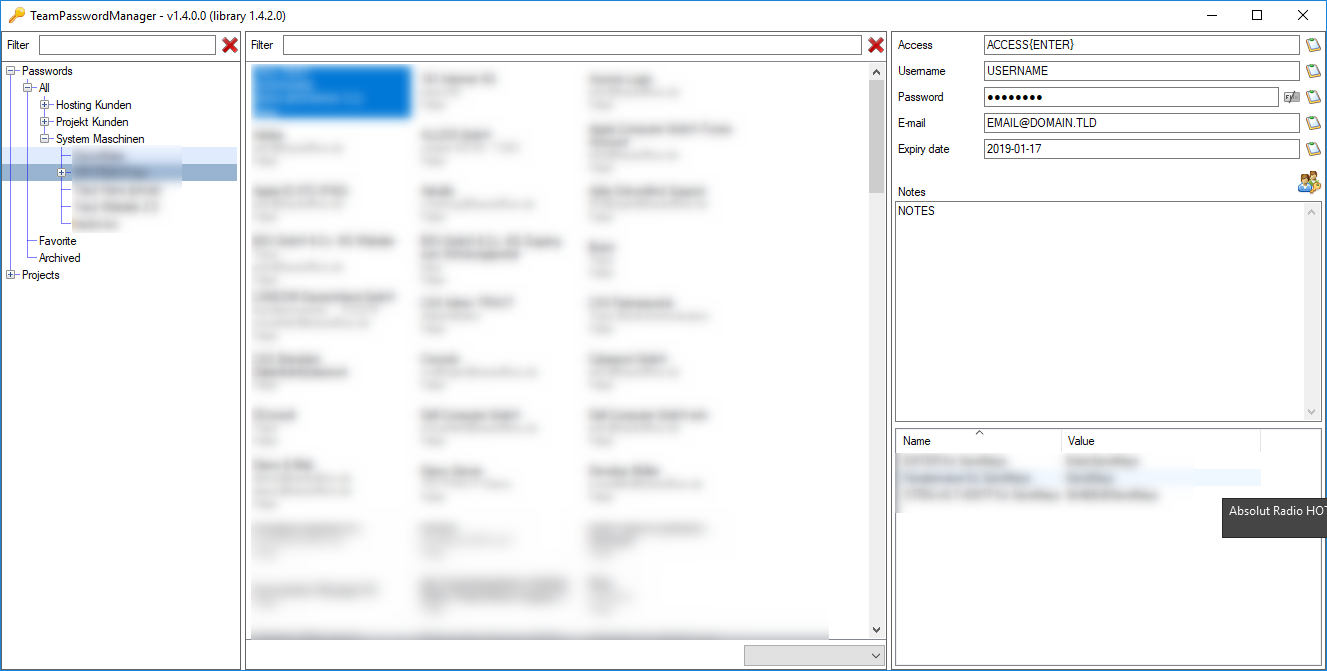
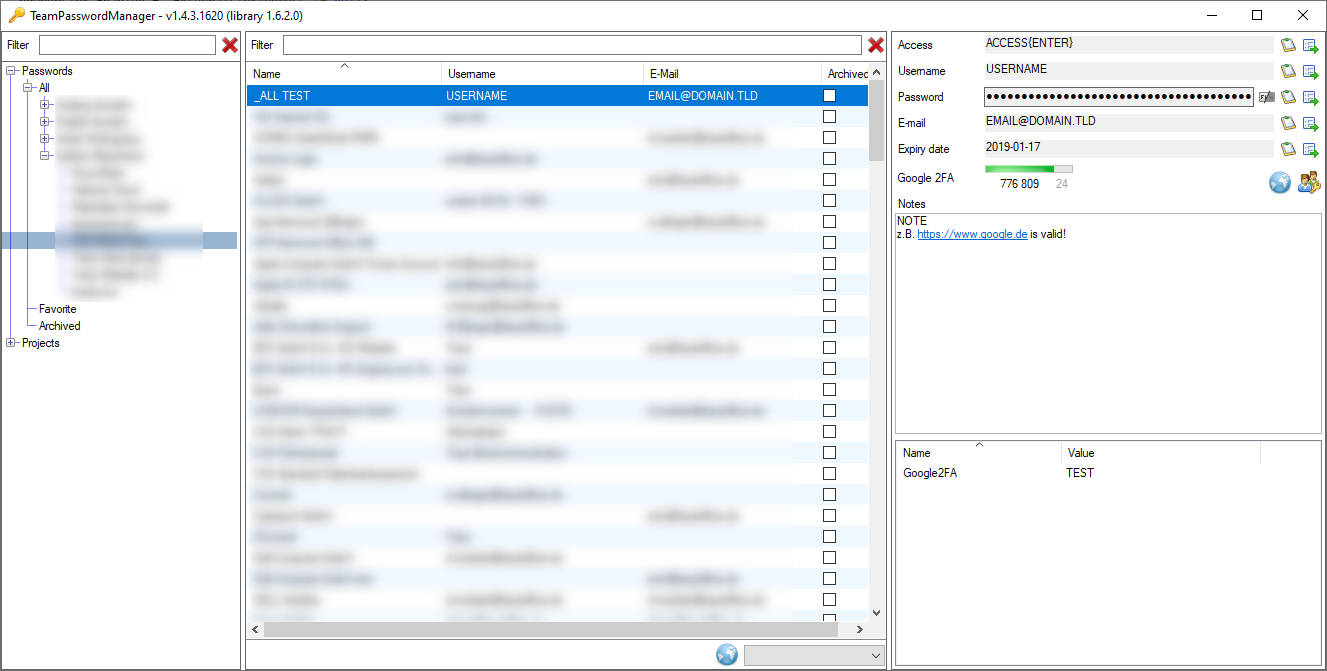
updated readme and screenshots

diff --git a/README.md b/README.md
@@ -10,6 +10,7 @@ Use at your own risk!
 * Search tree and list entries easily
 * Different list styles selectable
 * Autostart possible (using windows task scheduler logon option)
+* Google 2FA support using custom fields
 * Portable
 * Working API Access to basic functions needed for UI
 * Full access to UI controls (use it in your own application if you want to)
@@ -36,10 +37,17 @@ This project is still in beta phase and there are some things missing like:
 * HidePasswordsAfterSeconds (if password is revealed in the UI it is hidden after these amount of seconds - or not if 0)
 
 # TeamPassword.Library.dll.config
+## User
+* WindowChooserUsage (list of recently used programs in send keys feature - sorted after last used)
+* WindowChooserIgnoreProgramNames (list of program names which are going to be not shown in window chooser)
 ## Application
 * SendDelay (each key is delayed for these amount of milliseconds if send keys/send to application is used)
 * SendDelayInitial (waits these amounts of milliseconds before starting to send the first key (must be bigger than SendDelay) - needed e.g. for slow teamivewer connections)
 * SendWait (uses the default send keys feature to wait till application accepted the key)
+* WindowChooserLastUsedEntries (number of entries to show in window chooser - keep in mind that 3 can be viewed in default format)
 
 # Screenshot
+## Main Window
 ![](https://github.com/MyUncleSam/TeamPasswordManager.Viewer/blob/master/Screenshot1.png)
+## Window Chooser (for send keys)
+![](https://github.com/MyUncleSam/TeamPasswordManager.Viewer/blob/master/Screenshot2.png)
